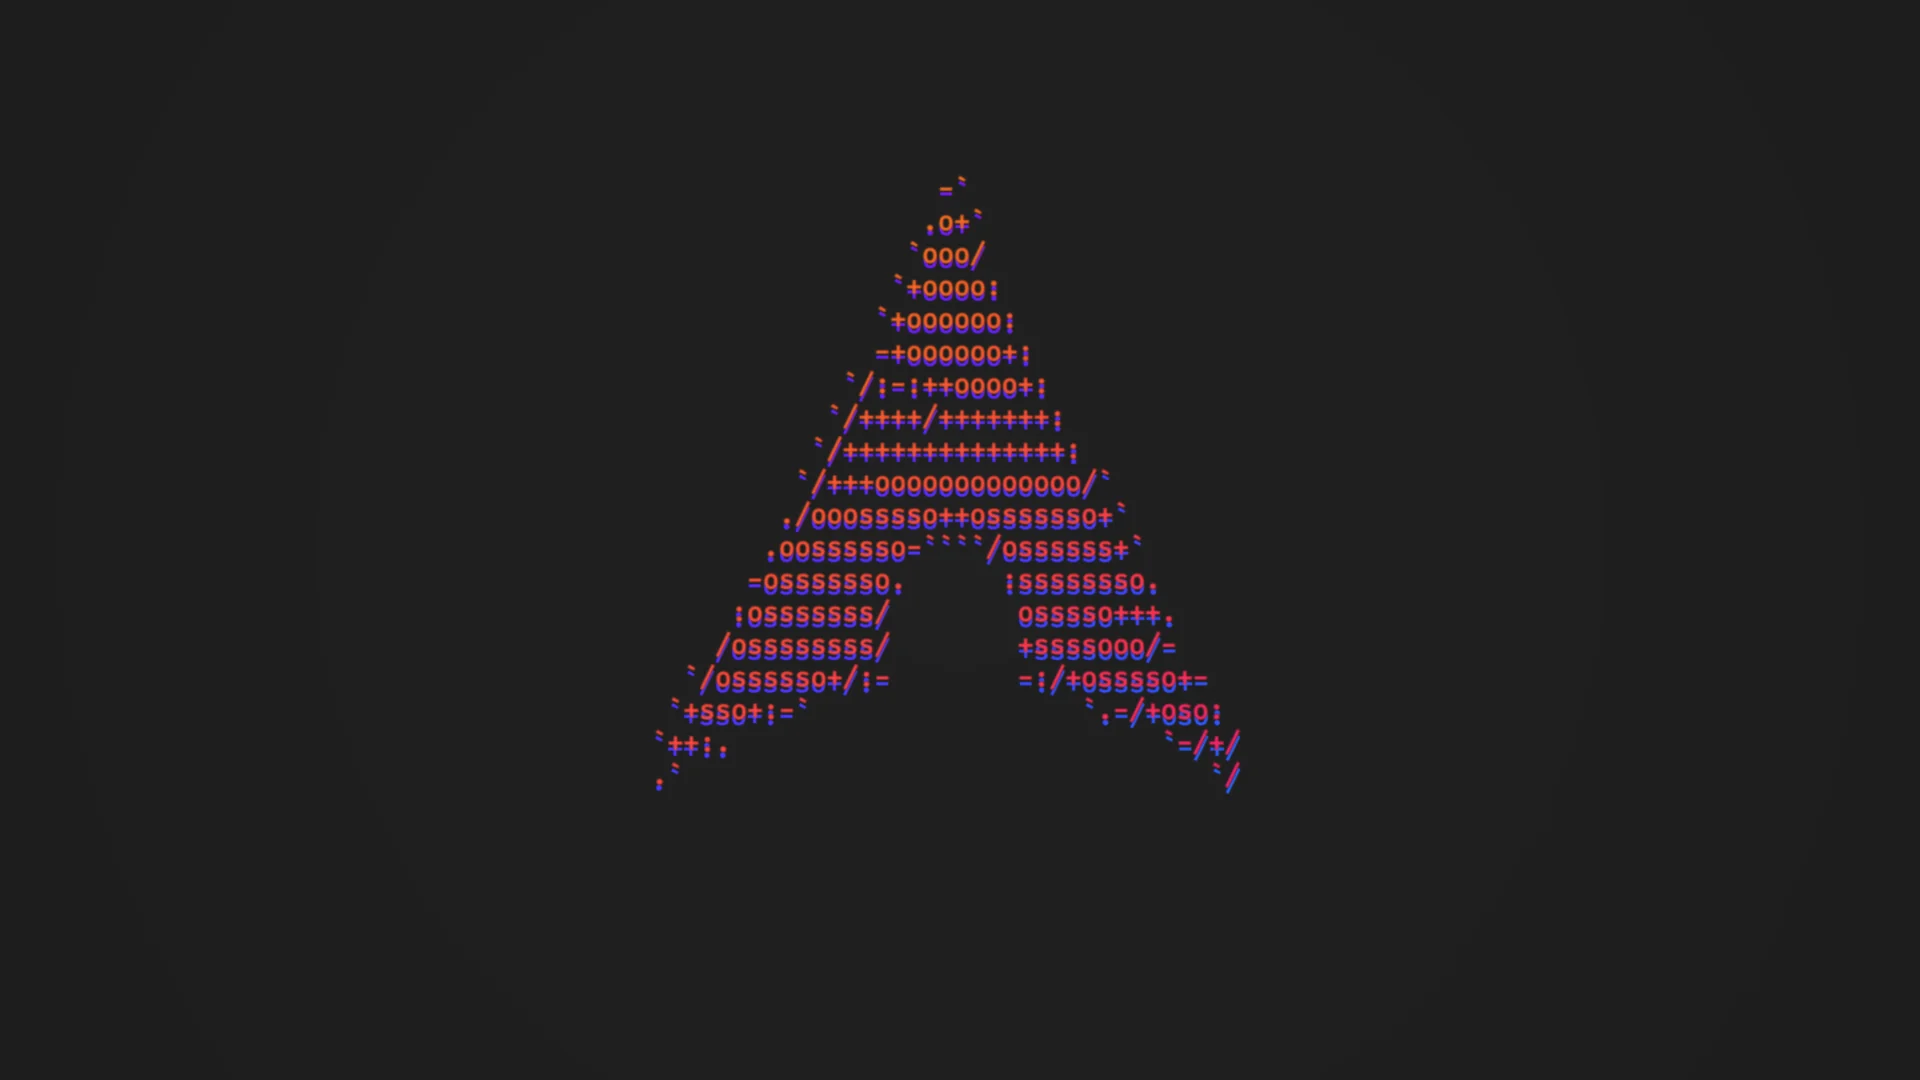
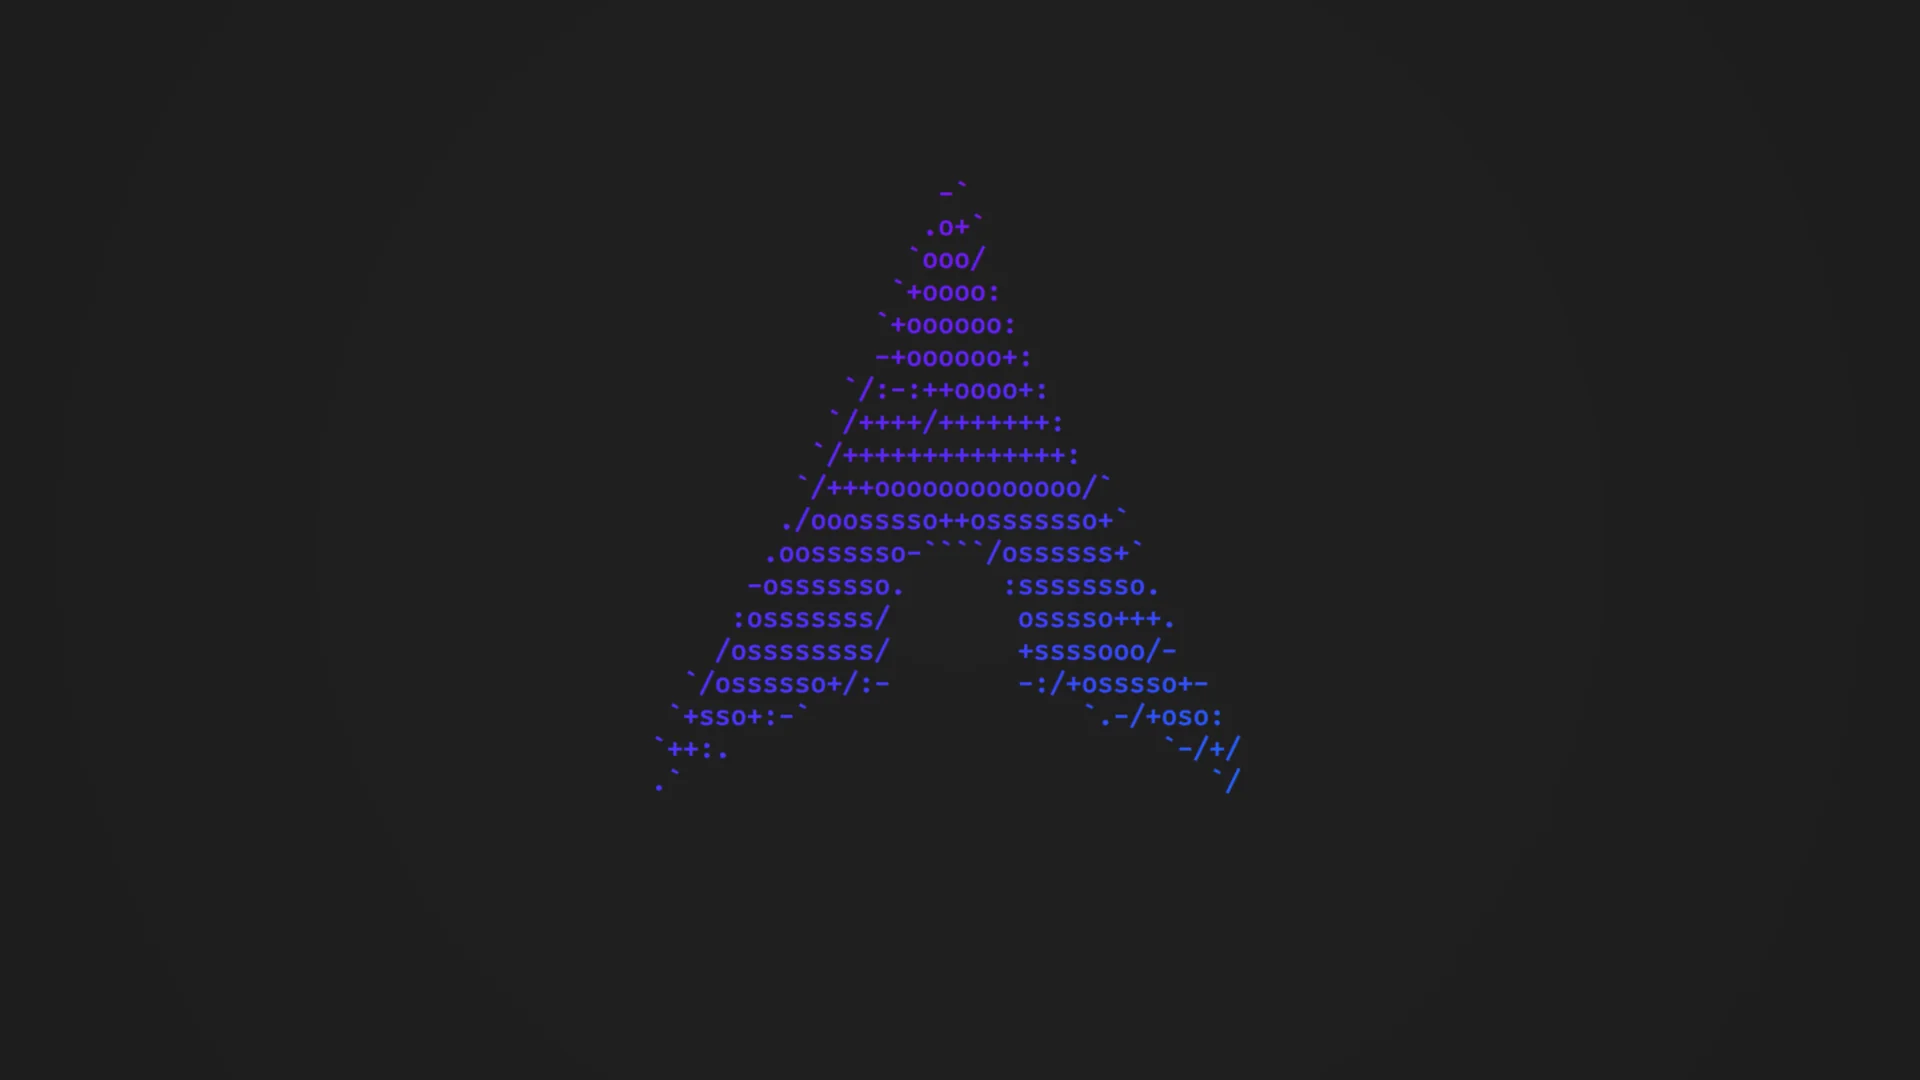
Update home/.config/assets/arch.png Update home/.config/waybar/style.css

Changed region(s): [[0.3438, 0.1833, 0.6562, 0.7333]]

diff --git a/home/dot_config/waybar/style.css b/home/dot_config/waybar/style.css
@@ -13,11 +13,15 @@ window#waybar {
     /* background: transparent; */
     background: rgba(24, 24, 37, 0.5);
     border-radius: 7px;
-    border: 1px solid rgba(88, 91, 112, 0.9);
+    border: 1px solid rgba(203, 166, 247, 0.5);
     color: @text;
 }
 
-#custom-logo,
+#custom-arch {
+    color: @blue;
+}
+
+#custom-arch,
 #taskbar,
 #clock,
 #network,
